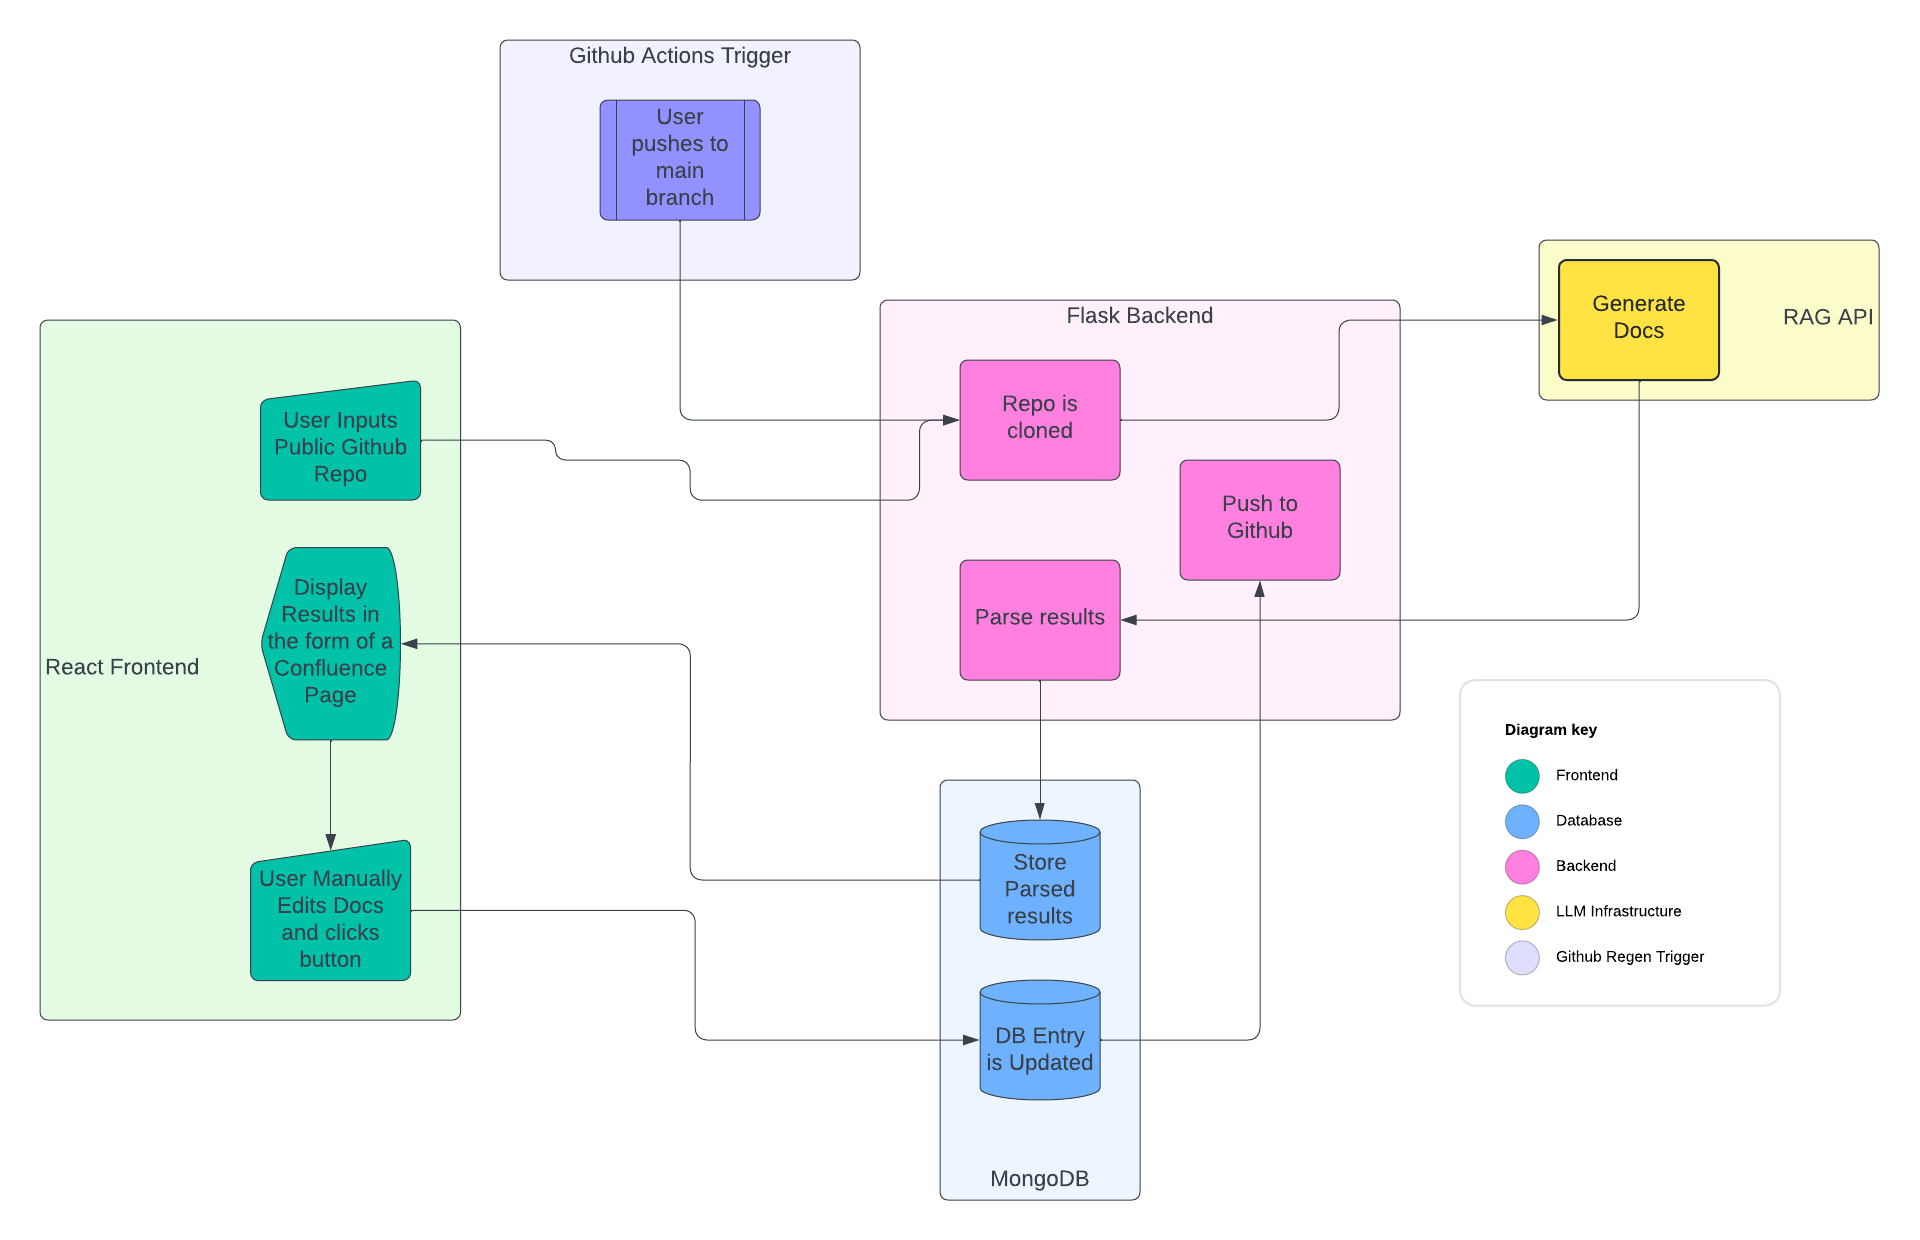
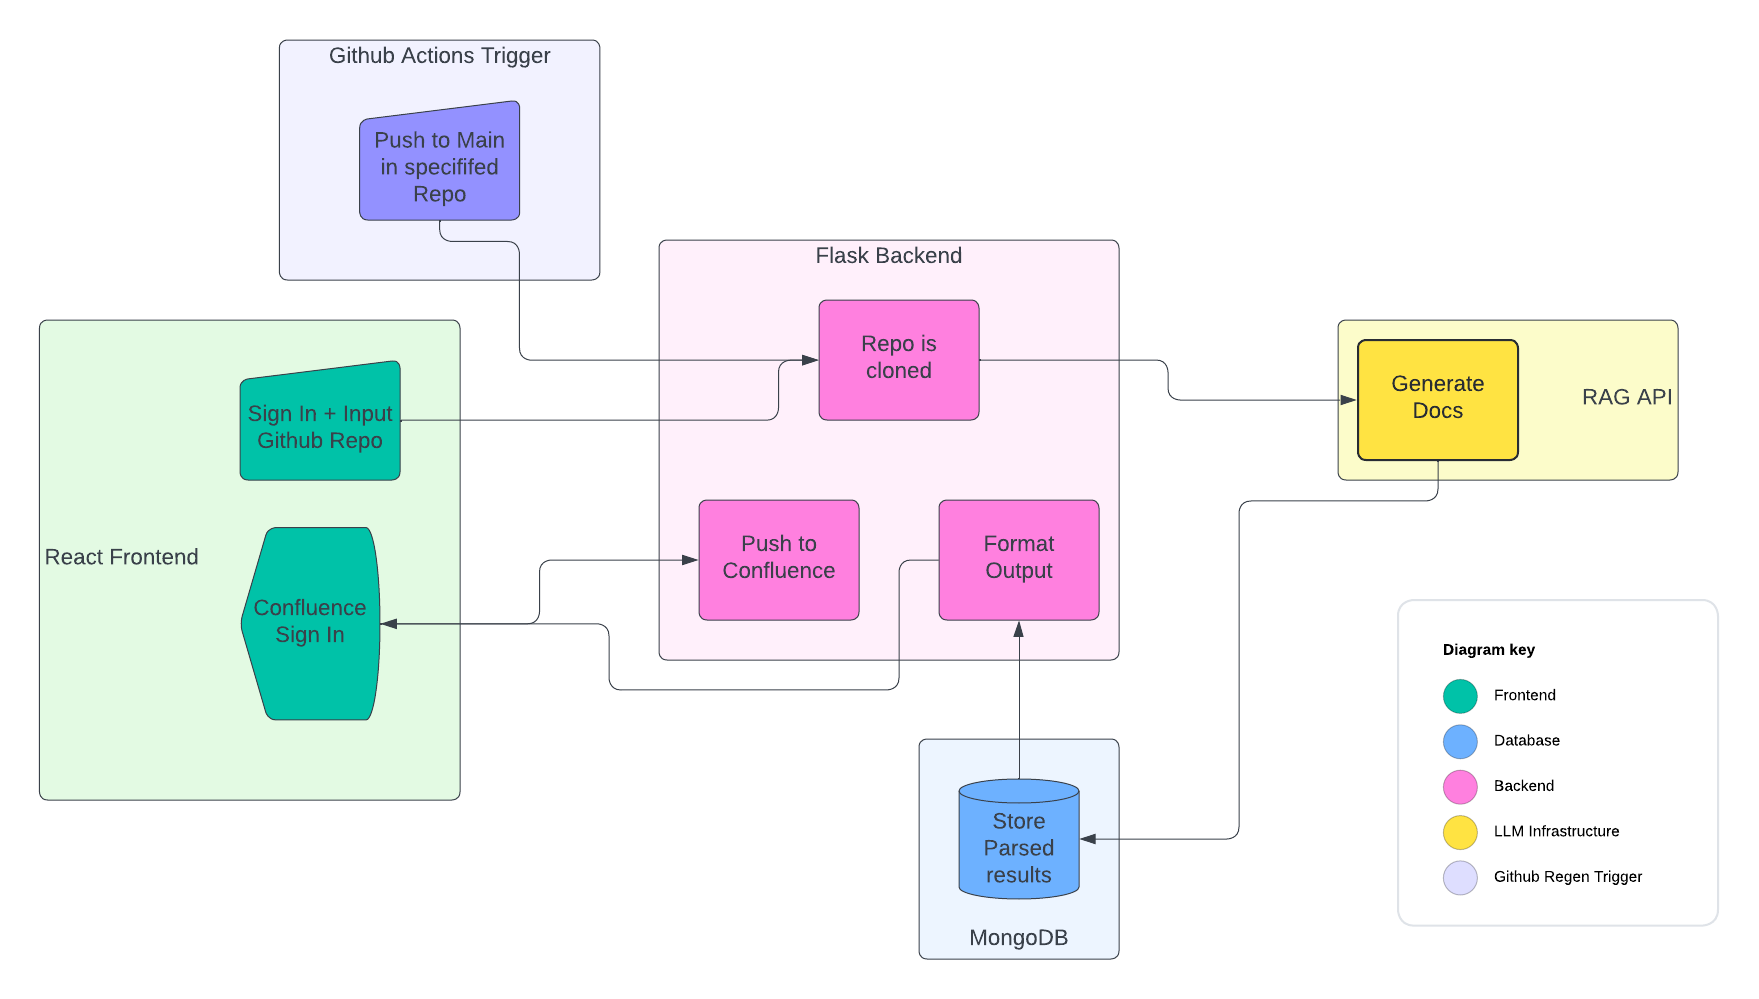
More docs

diff --git a/documentation/requirements-specifications.md b/documentation/requirements-specifications.md
@@ -18,7 +18,7 @@
 2. Output Structure
    1. The confluence pages shall follow the same file structure as the source code and shall have a one to one mapping. Each page shall describe the source code at the functional level, ensuring that the source code is covered to an acceptable level.
 3. Manual Editing
-   1. When the confluence page is displayed to the user, they will have the ability to manually update text within the Conlfuence webapp. 
+   1. When the confluence page is displayed to the user, they will have the ability to manually update text within the Confluence webapp. 
 4. Use of the LLM
    1. We will be implementing a Retrieval-Augmented Generation (RAG) backend. RAG is the process of optimizing the output of a large language model, so it references an authoritative knowledge base outside of its training data sources before generating a response. The Retrieval-Augmented Generation (RAG) approach enhances Large Language Models (LLMs) by integrating a step to fetch new data based on user inputs, thus improving response accuracy. This process involves collecting new information from diverse sources (a code base in our use case) and converting it into a format the LLM can search.
 5. Automated Updating

diff --git a/README.md b/README.md
@@ -9,7 +9,7 @@
   - [Files to create](#files-to-create)
   - [Backend](#backend)
   - [Frontend](#frontend)
-- [Test Instructions](#test-instructions)
+- [Automated Tests](#automated-tests)
   - [Frontend Tests](#frontend-tests)
   - [Backend Tests](#backend-tests)
 
@@ -30,8 +30,18 @@ Our project is web app that, when provided a github link, generates a confluence
 ## Files to create
 
 1. Download token_server.json and token_client.json from Slack
+   1. Alternatively, generate a set of tokens from the Github Api 
 2. Put file token_server.json under path flask-be
+   1. Should be in the following format - 
+  {
+    "client_id": "{your ID}",
+    "client_secret": "{your secret}"
+  }
 3. Put file token_client.json under path react-fe/src
+   1. Should be in the following format - 
+  {
+    "client_id": "88ca09b0077cb16d7a39"
+  }
 
 ## Backend
 
@@ -56,7 +66,7 @@ The backend should now be running
 
 The frontend should now be running
 
-# Test Instructions
+# Automated Tests
 
 There are a suite of tests to ensure that the frontend is rendered as expected, and the core backend functions work as expected. Refer to the below instructions for more.
 

diff --git a/documentation/architecture.md b/documentation/architecture.md
@@ -1,0 +1,10 @@
+# Architecture
+
+This is a basic overview of our architecture. For specific component definitions, please refer to the the componentDescriptions folder.
+
+The approach features a fully distributed system, in which all of the user interaction is handled and packaged by a React frontend and processed by a Flask backend. An image of the architecture is in the first image below below.
+
+For an overview of the key interfaces and the data being passed back and forth, refer to the second image below. 
+
+![Architecture](architecture.png)
+![Detailed Arch](detailedArch.png)

diff --git a/documentation/coding-standards/notes.md b/documentation/coding-standards/notes.md
@@ -1,0 +1,3 @@
+To perform a base set linting and 'prettifying' effort in accordance with the project, use the PyLint (python) and Prettifier (js) vscode extensions. The default settings are what were used throughout our codebase.
+
+More detailed stylistic instructions can be seen in the other two documents within this folder.
